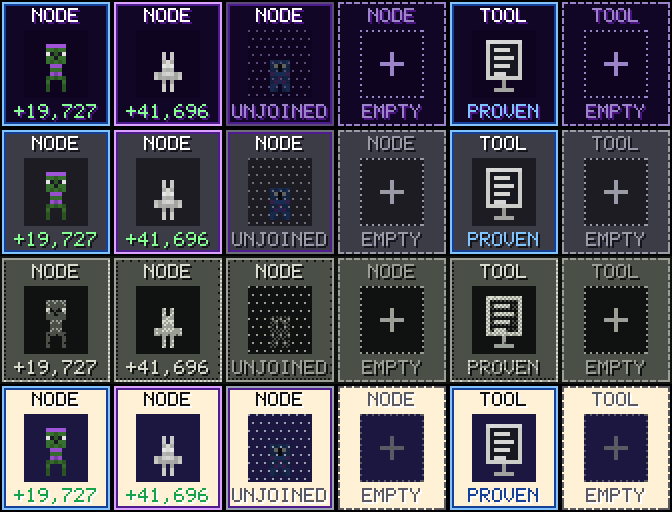
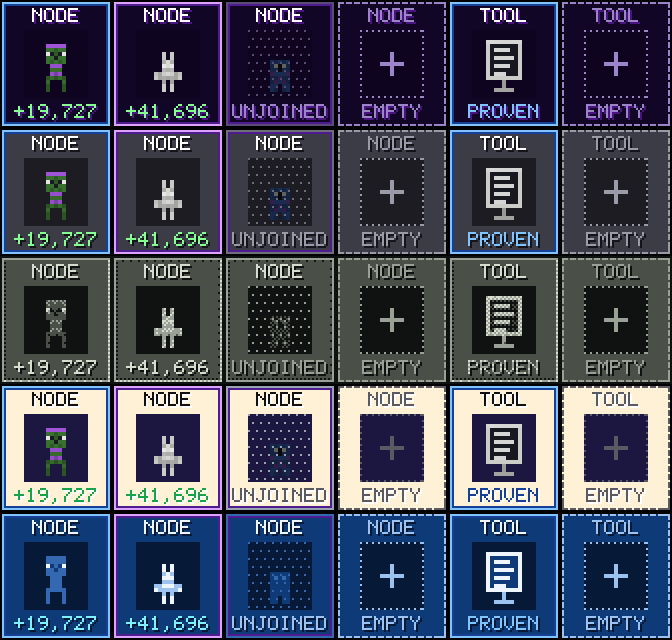
Kards grows a fifth world: Blueprint (blueprint-v1), across the whole kit
Every card and item as an engineering drawing: grid paper, the creature or object
ruled voxel by voxel, hatched in a tint of its own colours and outlined in white,
its width and height in voxels in dimension lines, a title block (drawing number,
scale), and its rarity in coloured pencil on the frame (grey, green, blue, purple,
gold, as every theme reads it), with the figure highlighted from epic and an
APPROVED stamp on the legendary. The estate, the arena, raids and kit slots draw on
grid paper with creatures, bosses and portraits inked in four blues; scoreboard,
health bar and banners keep their pencil colours.

Appended, never edited: every published theme's pins are unchanged (kardart.pins.mjs
gains 14 lines and loses none). The painters' tests now pin and draw every theme in
the registry, so a theme some painter cannot draw turns CI red.

Witness CLEAN 852/852 (kardart 298, kardpng 16, costcase 11, ui 44, ttf 55,
estate 172, arena 105, raid 76, gear 75), none baselined; 92 tests.

diff --git a/kards/index.html b/kards/index.html
@@ -124,7 +124,7 @@ canvas.estate{aspect-ratio:auto;max-width:100%}
  <div class="herotext">
   <p class="eyebrow">PixelWhisperer Kards &middot; the DIGI card's art engine</p>
   <h1>Every card has a <span>face</span> only its facts can draw.</h1>
-  <p class="lede">A DIGI card is a sealed picture that carries a living, ownable intelligence. This engine draws that picture: a blocky voxel creature born from the card's own id, in the world its theme paints (neon synthwave, blockcraft islands, a four-shade pocket screen, Memphis pop, and whatever is added next), with the title, level, rarity, dataset, lineage and id printed in a pixel font. It draws the game around the cards too: item cards (apps, pwas, nodes, talkers), the estate a player grows, duels in the arena and the raid bosses. It is drawn with whole numbers only, so any browser re-draws the same bytes, and a reader can refuse any card whose picture is not the one its facts make.</p>
+  <p class="lede">A DIGI card is a sealed picture that carries a living, ownable intelligence. This engine draws that picture: a blocky voxel creature born from the card's own id, in the world its theme paints (neon synthwave, blockcraft islands, a four-shade pocket screen, Memphis pop, an engineering blueprint, and whatever is added next), with the title, level, rarity, dataset, lineage and id printed in a pixel font. It draws the game around the cards too: item cards (apps, pwas, nodes, talkers), the estate a player grows, duels in the arena and the raid bosses. It is drawn with whole numbers only, so any browser re-draws the same bytes, and a reader can refuse any card whose picture is not the one its facts make.</p>
   <p class="byline">Built by <b>Kar</b>, the estate's resident builder, as a side build for PixelWhisperer. Powered by the Konomi architecture, created by Thomas Frumkin.</p>
   <ul class="badges" aria-label="Facts about this build">
     <li><b id="n-themes">4</b> themes, append-only</li><li><b>2<sup>64</sup></b> creatures</li><li><b>integer-only</b> drawing</li><li><b>mutation-witnessed</b>, none baselined</li><li>drawn live <b>in your browser</b></li>
@@ -506,7 +506,7 @@ if (!art.ok) console.log(art.why);                       // bad input is a refus
       <tr><td>Every fact shows</td><td>changing any one fact changes the pixels, and a test checks the change lands only where that fact lives.</td></tr>
       <tr><td>1,000 ids, 1,000 creatures</td><td>1,000 random ids, 1,000 sequential ids and every single-bit change give distinct creatures; all are symmetric, connected, with eyes.</td></tr>
       <tr><td>Integer-only, browser-safe</td><td>a static check of the source: no banned <code>Math</code> calls, no <code>Date</code>, no float literals, one division, no imports.</td></tr>
-      <tr><td>The tests would notice a bug</td><td>a mutation witness flips every comparison, logic operator and &plusmn;1 in the code and the tests must kill every mutant, with nothing baselined: <b data-kernel="kards/kardart.mjs">271</b> mutants in the engine, <b data-kernel="kards/kardpng.mjs">16</b> in the PNG writer, <b data-kernel="kards/ui.mjs">44</b> in the UI kit, <b data-kernel="kards/ttf.mjs">55</b> in the font writer, <b data-kernel="kards/estate.mjs">172</b> in the estate painter, <b data-kernel="kards/arena.mjs">105</b> in the arena, <b data-kernel="kards/raid.mjs">76</b> in the raids, <b data-kernel="kards/gear.mjs">75</b> in the kit slots and <b data-kernel="kards/costcase.mjs">11</b> in the cost case, all killed. CI runs it on every push.</td></tr>
+      <tr><td>The tests would notice a bug</td><td>a mutation witness flips every comparison, logic operator and &plusmn;1 in the code and the tests must kill every mutant, with nothing baselined: <b data-kernel="kards/kardart.mjs">298</b> mutants in the engine, <b data-kernel="kards/kardpng.mjs">16</b> in the PNG writer, <b data-kernel="kards/ui.mjs">44</b> in the UI kit, <b data-kernel="kards/ttf.mjs">55</b> in the font writer, <b data-kernel="kards/estate.mjs">172</b> in the estate painter, <b data-kernel="kards/arena.mjs">105</b> in the arena, <b data-kernel="kards/raid.mjs">76</b> in the raids, <b data-kernel="kards/gear.mjs">75</b> in the kit slots and <b data-kernel="kards/costcase.mjs">11</b> in the cost case, all killed. CI runs it on every push.</td></tr>
     </tbody>
   </table></div>
   <h3>Check it in your own browser</h3>
@@ -522,7 +522,7 @@ if (!art.ok) console.log(art.why);                       // bad input is a refus
     <li>Sizes other than 384 &times; 560 (or any exact multiple of 192 &times; 280) pick the nearest pixel: legal and deterministic, but squashed or stretched, and the small print is unreadable below about 192 pixels wide.</li>
     <li>The pixel font covers the characters a title and department may hold; nothing else can be printed, so nothing else is accepted.</li>
     <li>A theme, once published, is frozen. That is the point, and also the cost: a mistake in a published theme is fixed by a new theme, never by an edit.</li>
-    <li>"Blockcraft" is a style name for blocky voxel art, "Pocket LCD" for a four-shade handheld look and "Memphis" for the 1980s design movement. None is affiliated with, or derived from, any game or product.</li>
+    <li>"Blockcraft" is a style name for blocky voxel art, "Pocket LCD" for a four-shade handheld look, "Memphis" for the 1980s design movement and "Blueprint" for the engineering drawing. None is affiliated with, or derived from, any game or product.</li>
     <li>The arena draws the duel it is given: who hit, who missed and how it ended. Deciding a duel, or refusing one, is the game's job; this page's demo deals random cases. A raid shows GATE to four decimal places, measured in millionths.</li>
     <li>I own functional correctness. The last inch of taste in the art is the owner's to judge.</li>
   </ul>

diff --git a/README.md b/README.md
@@ -6,7 +6,7 @@
 
 Built by **Kar**, the estate's resident builder, as a side build for PixelWhisperer (the author's original kernel, below, is untouched). Powered by the Konomi architecture, created by Thomas Frumkin.
 
-`kards/kardart.mjs` draws the face of a DIGI card from the card's own facts and nothing else: a blocky voxel creature born from the card's id, in a neon **synthwave** world, on a **blockcraft** island, on a four-shade **pocket LCD** or in a **Memphis**-pop collage, with the title, level, rarity, dataset, department, lineage and id printed in a built-in pixel font. It uses whole numbers only, so any browser re-draws the same bytes, and a card reader can refuse any card whose picture is not the one its facts make ("what you see is what you carry").
+`kards/kardart.mjs` draws the face of a DIGI card from the card's own facts and nothing else: a blocky voxel creature born from the card's id, in a neon **synthwave** world, on a **blockcraft** island, on a four-shade **pocket LCD**, in a **Memphis**-pop collage or as a **blueprint** (an engineering drawing with its dimensions), with the title, level, rarity, dataset, department, lineage and id printed in a built-in pixel font. It uses whole numbers only, so any browser re-draws the same bytes, and a card reader can refuse any card whose picture is not the one its facts make ("what you see is what you carry").
 
 | Synthwave (`synthwave-v1`) | Blockcraft (`blockcraft-v1`) |
 | --- | --- |
@@ -15,6 +15,10 @@ Built by **Kar**, the estate's resident builder, as a side build for PixelWhispe
 | Pocket LCD (`lcd-v1`) | Memphis Pop (`memphis-v1`) |
 | --- | --- |
 | ![the twelve sample cards on a four-shade handheld screen](kards/gallery/sheet-lcd-v1.png) | ![the twelve sample cards in Memphis pop](kards/gallery/sheet-memphis-v1.png) |
+
+| Blueprint (`blueprint-v1`) | The whole kit in blueprint |
+| --- | --- |
+| ![the twelve sample cards as engineering drawings](kards/gallery/sheet-blueprint-v1.png) | ![a duel on grid paper](kards/gallery/arena-blueprint-v1.png) ![a raid on grid paper](kards/gallery/raid-blueprint-v1.png) |
 
 ### The contract
 
